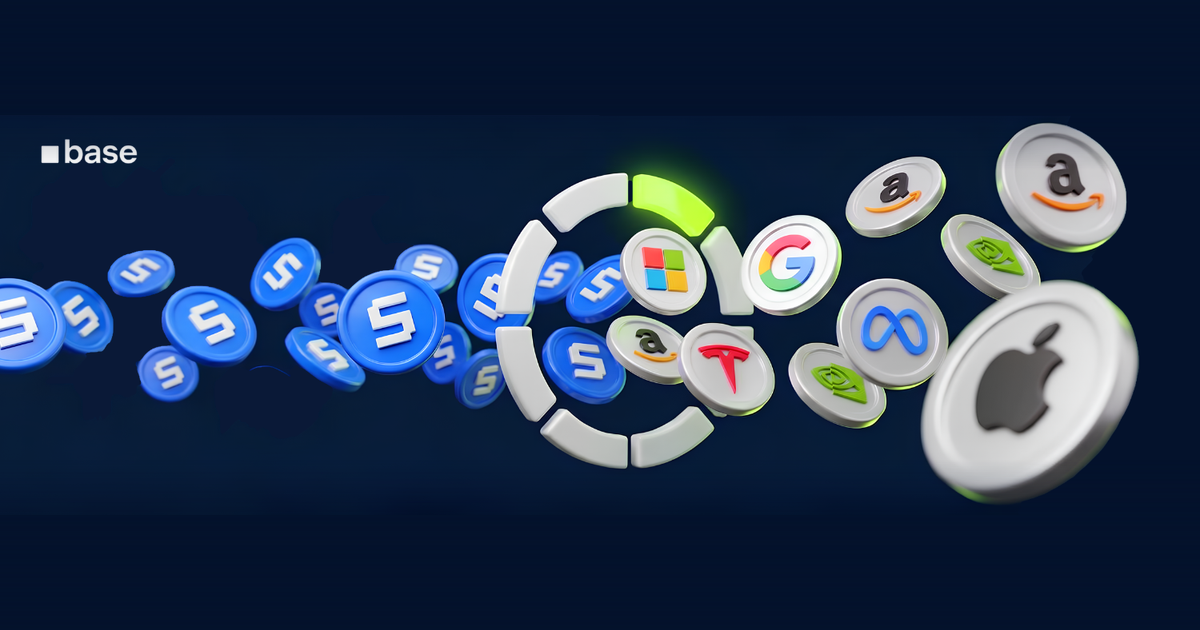
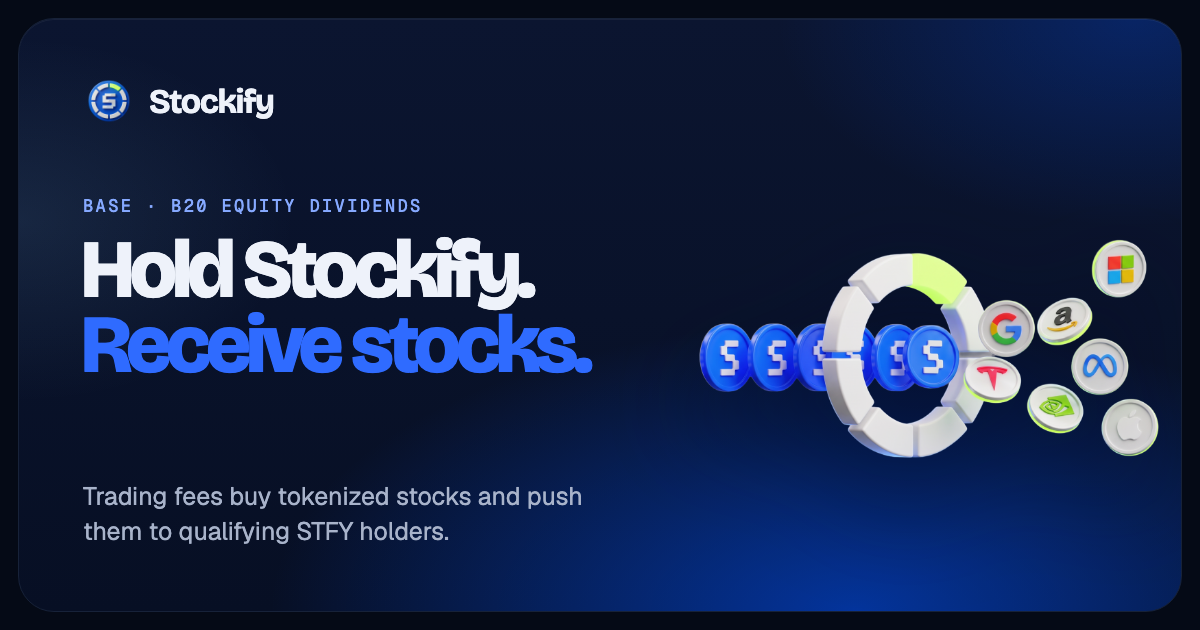
Rewrite the defensive copy, and ship a 2.0 share image
- Copy: em-dashes out of the visible prose on the main pages, and the
  lines that argued with an unmade accusation ("Nothing here is a
  projection", "Nothing here is off-chain", "empty is a different
  claim", "not a yield page") replaced with plain sentences. The indices
  lede goes from five lines to three.
- opengraph-image.png: the poster hero on the night canvas with the new
  fee-to-stock render, composed in HTML and rendered at 1200x630 so the
  type is real type; alt text updated.

diff --git a/web/app/indices/page.tsx b/web/app/indices/page.tsx
@@ -80,11 +80,9 @@ export default async function IndicesPage() {
             <p className="eyebrow">INDICES</p>
             <h1>Make a launch pay its holders.</h1>
             <p className="hub-lede">
-              A coin earns its creator a share of every trade. Left alone that is income to a wallet.
-              Pointed at an index it becomes a mechanism anyone can audit on-chain: the fees buy real
-              tokenized equity and it is pushed out to the coin&apos;s holders, or they buy the coin
-              back and destroy it. Nothing is claimed, nothing is staked, and what an index buys is
-              fixed the day it is created.
+              A coin earns its creator a share of every trade. Point that share at an index and the
+              fees buy tokenized equity for the coin&apos;s holders, or buy the coin back and burn it.
+              Nothing to claim, nothing to stake.
             </p>
             <div className="hub-head-cta">
               <Link className="button button-ink" href="/indices/create">
@@ -109,9 +107,8 @@ export default async function IndicesPage() {
                   : `The ${FEATURED} that have given back the most.`}
             </h2>
             <p>
-              What each one holds, what it has given back, and how often it has done it. Ordered by
-              that — equity pushed to holders, or coins bought back and destroyed, whichever the
-              index was built to do. Made here, or inside a launch on{" "}
+              Ranked by what each one has given back: equity pushed to holders, or coins bought back
+              and destroyed, whichever the index was built to do. Made here, or inside a launch on{" "}
               <a href={LAUNCHPAD.url} rel="noreferrer" target="_blank">{LAUNCHPAD.name} ↗</a>; an index
               does not care which launchpad its coin came from.
             </p>
@@ -184,7 +181,7 @@ export default async function IndicesPage() {
               <dt>Composition is immutable</dt>
               <dd>
                 What an index buys is fixed at creation. Changing it means a new index and pointing the
-                fees again — there is no setter.
+                fees again.
               </dd>
             </div>
           </dl>
@@ -195,7 +192,7 @@ export default async function IndicesPage() {
             <p className="eyebrow">CREATE ONE</p>
             <h2>Five questions, one transaction.</h2>
             <p className="page-cta-note">
-              Then point your coin&apos;s creator fees at it — from{" "}
+              Then point your coin&apos;s creator fees at it from{" "}
               <a href={LAUNCHPAD.url} rel="noreferrer" target="_blank">{LAUNCHPAD.name}</a>&apos;s launch
               form, or any launchpad this service supports.
             </p>

diff --git a/web/app/indices/[address]/page.tsx b/web/app/indices/[address]/page.tsx
@@ -443,7 +443,7 @@ export default async function IndexPage({
         <section className="section wrap hub-section">
           <div className="section-head">
             <p className="eyebrow">CONTRACTS</p>
-            <h2>Nothing here is off-chain.</h2>
+            <h2>The addresses behind it.</h2>
           </div>
           <div className="idx-addrs">
             {([["Coin", bound ? index.coin : null], ["Index treasury", index.address], ["Fees arrive in", index.quote === "0x0000000000000000000000000000000000000000" ? null : index.quote]] as Array<[string, string | null]>)
@@ -470,13 +470,13 @@ export default async function IndexPage({
         </section>
 
         <p className="desk-note wrap" style={{ paddingBottom: "3rem" }}>
-          Holders are paid pro-rata on the coin balance they hold when a round runs — there is nothing
+          Holders are paid pro-rata on the coin balance they hold when a round runs. There is nothing
           to claim. Wallets under {MIN_HOLDER_COINS.toLocaleString("en-US")} coins are skipped, and
           their slice stays with everyone else instead of going to gas. Stockify keeps{" "}
           {(split.platform / 100).toFixed(0)}% of the fees;{" "}
           {index.creatorShareBps > 0
             ? `the creator keeps ${(split.creator / 100).toFixed(0)}% of what is left.`
-            : "the creator keeps nothing — all of the rest goes to holders."}
+            : "the creator keeps nothing, so all of the rest goes to holders."}
         </p>
       </main>
       <SiteFooter />

diff --git a/web/app/stocks/page.tsx b/web/app/stocks/page.tsx
@@ -180,8 +180,8 @@ export default async function StocksPage() {
             <p className="eyebrow">BASE · B20 UNIVERSE</p>
             <h1>Every tokenized stock on Base.</h1>
             <p className="hub-lede">
-              Coinbase issues these equities directly on Base as B20 tokens. The column worth reading
-              is the last one — how far a token trades from the share it represents.
+              Coinbase issues these equities directly on Base as B20 tokens. The last column is the
+              one to watch: how far each token trades from the share it represents.
             </p>
             {/* The page's two halves, offered up front: the B20 table it exists for, and the
                 whole-market overview below it. Anchors — both destinations are this page. */}
@@ -229,8 +229,8 @@ export default async function StocksPage() {
             <summary><h2>Why most of these have no supply</h2><i aria-hidden="true">+</i></summary>
             <p>
               Base&apos;s equities are new and most have not been issued yet: for the majority, no
-              shares exist at all. A token whose supply we could not check shows <b>—</b>, never a
-              zero. Those are very different claims and only one of them is ours to make.
+              shares exist at all. A token whose supply could not be read shows <b>—</b> rather than
+              a zero.
             </p>
           </details>
           <details>

diff --git a/web/app/dividends/page.tsx b/web/app/dividends/page.tsx
@@ -181,10 +181,8 @@ export default async function DividendPage({ searchParams }: PageProps<"/dividen
             <p className="eyebrow">DIVIDEND DESK</p>
             <h1>See the assets leave the vault.</h1>
             <p className="hub-lede">
-              What has actually reached holders: which equities the vault bought, in what proportion,
-              and how much of each has been pushed out. The vault is drained every cycle, so its
-              balance is not the story — what left it is. Nothing here is a projection, and there is
-              no yield counter.
+              Which equities the vault bought, in what proportion, and how much of each has reached
+              holders. The vault empties every cycle, so what matters is what left it.
             </p>
           </div>
           <BrandRender className="hub-render" priority size={340} src="/distributions.png" />
@@ -263,8 +261,8 @@ export default async function DividendPage({ searchParams }: PageProps<"/dividen
             </div>
           ) : (
             <p className="detail-empty">
-              The dividend vault did not answer, so its index cannot be shown. Nothing is filled in
-              with an assumed set.
+              The dividend vault did not answer just now, so its index cannot be shown. Try again in
+              a minute.
             </p>
           )}
 

diff --git a/web/app/docs/page.tsx b/web/app/docs/page.tsx
@@ -121,9 +121,8 @@ export default function DocsPage() {
           <p className="eyebrow">TECHNICAL REFERENCE / LIVE ON BASE</p>
           <h1>Protocol<br /><em>documentation.</em></h1>
           <p>
-            This is an implementation reference for the contracts and keepers behind Stockify—not a yield page.
-            It describes what the deployed code does, and names the operational trust assumptions rather than
-            leaving them implied.
+            How the contracts and keepers behind Stockify work: what the deployed code does, and the
+            operational trust assumptions it relies on.
           </p>
           <div className="docs-status-row" aria-label="Protocol status">
             <span>Base mainnet · 8453</span><span>Solidity · 0.8.26</span><span>Unaudited</span>

diff --git a/web/app/indices/all/page.tsx b/web/app/indices/all/page.tsx
@@ -195,7 +195,7 @@ export default async function AllIndicesPage({ searchParams }: PageProps<"/indic
             <p className="eyebrow">CREATE ONE</p>
             <h2>Five questions, one transaction.</h2>
             <p className="page-cta-note">
-              Then point your coin&apos;s creator fees at it — from{" "}
+              Then point your coin&apos;s creator fees at it from{" "}
               <a href={LAUNCHPAD.url} rel="noreferrer" target="_blank">{LAUNCHPAD.name}</a>&apos;s launch
               form, or any launchpad this service supports.
             </p>

diff --git a/web/app/components/index-universe.tsx b/web/app/components/index-universe.tsx
@@ -43,8 +43,7 @@ export function IndexUniverse({ slices }: { slices: IndexSlice[] }) {
       <aside className="index-universe is-unread" aria-label="Dividend index weights">
         <div className="universe-head"><span>DIVIDEND INDEX</span><b>—</b></div>
         <p className="universe-unread">
-          The vault&apos;s index could not be read just now. It is not shown as empty, because empty
-          is a different claim.
+          The vault&apos;s index could not be read just now. Try again in a minute.
         </p>
       </aside>
     );
